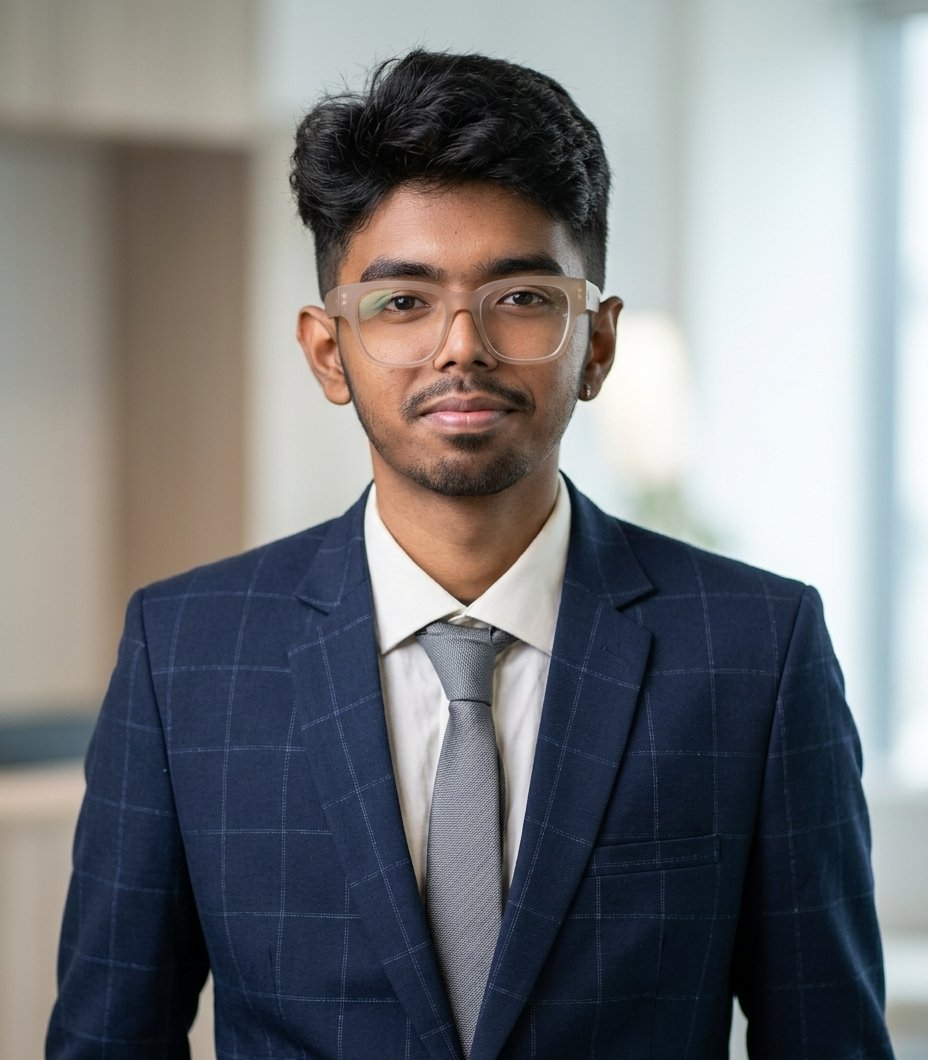
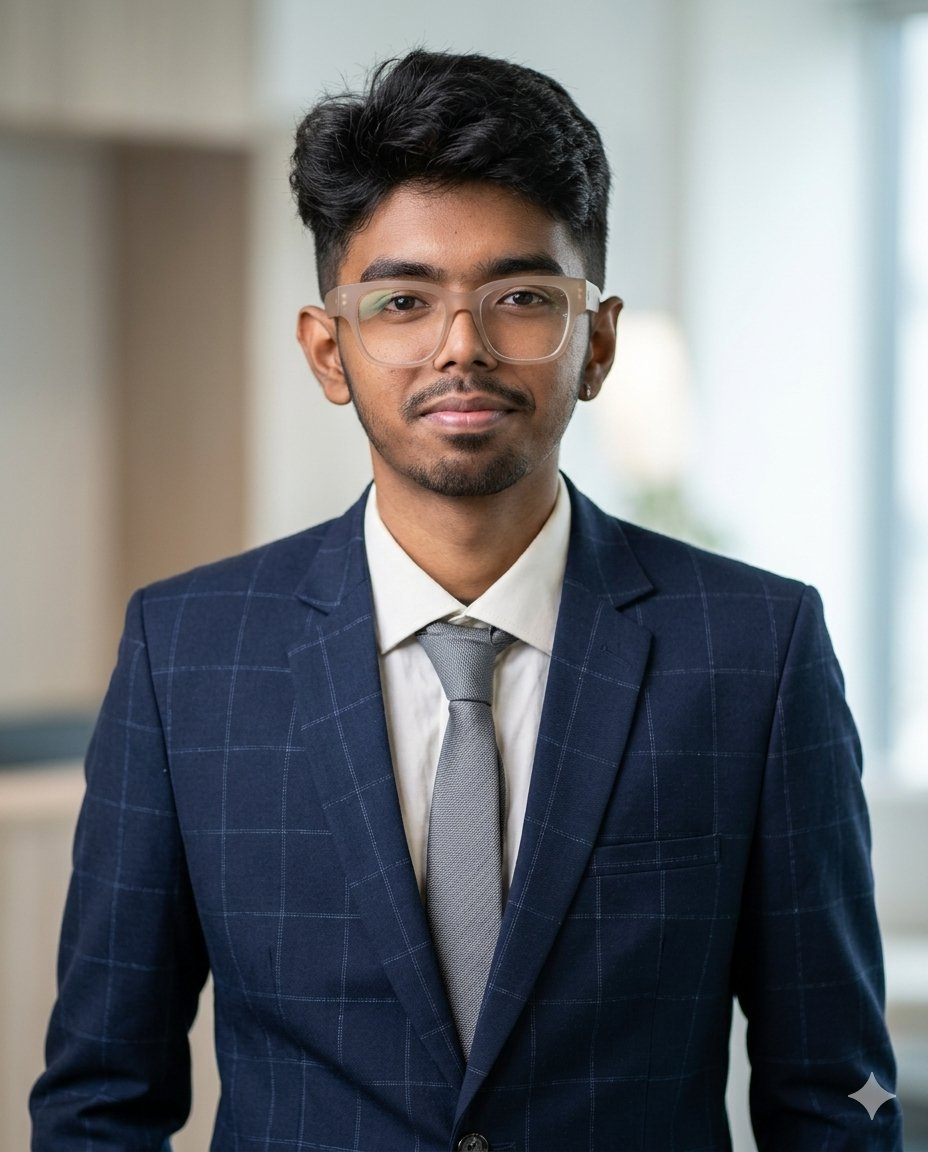
updated my portfolio

diff --git a/index.html b/index.html
@@ -33,8 +33,8 @@
       <p class="hero-role">Software Engineering Student</p>
       <p class="hero-desc">
         CS undergraduate at <strong>AIUB</strong> (Major: Software Engineering, Minor: AI),
-        building practical software across the full stack. CGPA 3.95/4.00 with
-        hands-on experience from real projects and ongoing research.
+        building full-stack software with <strong>React, Next.js, NestJS</strong> and <strong>ASP.NET</strong>.
+        CGPA 3.95/4.00 · 3× Dean's Award · Published researcher.
       </p>
       <div class="hero-btns">
         <a href="#projects" class="btn-primary">View Projects</a>
@@ -69,7 +69,7 @@
           <div class="stat-label">Projects Built</div>
         </div>
         <div class="stat-item">
-          <div class="stat-number"><span data-count="2">2</span></div>
+          <div class="stat-number"><span data-count="3">3</span></div>
           <div class="stat-label">Dean's Awards</div>
         </div>
         <div class="stat-item">
@@ -108,14 +108,15 @@
           Software Engineering with a minor in Artificial Intelligence.
         </p>
         <p>
-          I've built full-stack web apps, desktop systems, graphics programs, and enterprise
-          management tools — across <strong>C++, Java, C#, PHP, JavaScript</strong> and more.
-          My focus is on writing clean, maintainable code that solves real problems.
+          I build full-stack web apps, desktop systems, graphics programs, and enterprise
+          management tools. My current stack includes <strong>React, Next.js</strong> on the frontend
+          and <strong>NestJS, ASP.NET MVC / Web API</strong> on the backend — with <strong>PostgreSQL</strong>
+          and SQL Server for data. I focus on clean, maintainable architecture.
         </p>
         <p>
-          Currently in my final stretch (Semester 10), diving into <strong>ASP.NET, advanced
-          JS/PHP frameworks,</strong> and <strong>software quality & testing</strong>. I'm also
-          an active LeetCode participant (beginner) and enjoy competitive problem-solving.
+          I've also published a <strong>research paper</strong> during my undergraduate studies and
+          received the <strong>Dean's Award 3 times</strong>. Currently in Semester 10, wrapping up
+          with advanced web frameworks and software quality & testing.
         </p>
         <p>
           Outside code: cricket, chess, and Rubik's cubing keep me sharp.
@@ -185,22 +186,49 @@
 
       <div class="skill-category fade-up fade-up-delay-2">
         <div class="skill-cat-header">
-          <div class="skill-cat-icon">🔧</div>
-          <div class="skill-cat-name">Frameworks & Tech</div>
+          <div class="skill-cat-icon">🖥</div>
+          <div class="skill-cat-name">Frontend</div>
         </div>
         <div class="skill-tags">
-          <span class="skill-tag">Node.js</span>
-          <span class="skill-tag">OpenGL</span>
-          <span class="skill-tag">Oracle</span>
-          <span class="skill-tag">MySQL</span>
-          <span class="skill-tag in-progress">ASP.NET (learning)</span>
-          <span class="skill-tag in-progress">ADO.NET (learning)</span>
-          <span class="skill-tag in-progress">JS Frameworks (learning)</span>
-          <span class="skill-tag in-progress">PHP Frameworks (learning)</span>
+          <span class="skill-tag highlight">React</span>
+          <span class="skill-tag highlight">Next.js</span>
+          <span class="skill-tag">HTML / CSS</span>
+          <span class="skill-tag">JavaScript</span>
         </div>
       </div>
 
       <div class="skill-category fade-up fade-up-delay-3">
+        <div class="skill-cat-header">
+          <div class="skill-cat-icon">⚙</div>
+          <div class="skill-cat-name">Backend</div>
+        </div>
+        <div class="skill-tags">
+          <span class="skill-tag highlight">NestJS</span>
+          <span class="skill-tag highlight">Node.js</span>
+          <span class="skill-tag highlight">ASP.NET MVC</span>
+          <span class="skill-tag highlight">ASP.NET Web API</span>
+          <span class="skill-tag">3-Tier Architecture</span>
+          <span class="skill-tag">ADO.NET</span>
+          <span class="skill-tag">REST APIs</span>
+          <span class="skill-tag">PHP</span>
+          <span class="skill-tag">OpenGL</span>
+        </div>
+      </div>
+
+      <div class="skill-category fade-up fade-up-delay-4">
+        <div class="skill-cat-header">
+          <div class="skill-cat-icon">🗄</div>
+          <div class="skill-cat-name">Databases</div>
+        </div>
+        <div class="skill-tags">
+          <span class="skill-tag highlight">PostgreSQL</span>
+          <span class="skill-tag highlight">MySQL</span>
+          <span class="skill-tag">Microsoft SQL Server</span>
+          <span class="skill-tag">Oracle</span>
+        </div>
+      </div>
+
+      <div class="skill-category fade-up fade-up-delay-1">
         <div class="skill-cat-header">
           <div class="skill-cat-icon">🛠</div>
           <div class="skill-cat-name">Developer Tools</div>
@@ -208,25 +236,22 @@
         <div class="skill-tags">
           <span class="skill-tag">VS Code</span>
           <span class="skill-tag">Visual Studio 2022</span>
-          <span class="skill-tag">MS SQL Server</span>
-          <span class="skill-tag">Code::Blocks</span>
-          <span class="skill-tag">LaTeX</span>
-          <span class="skill-tag">Notepad++</span>
           <span class="skill-tag">Git / GitHub</span>
+          <span class="skill-tag">Postman</span>
+          <span class="skill-tag">LaTeX</span>
+          <span class="skill-tag">Code::Blocks</span>
         </div>
       </div>
 
-      <div class="skill-category fade-up fade-up-delay-4">
+      <div class="skill-category fade-up fade-up-delay-2">
         <div class="skill-cat-header">
           <div class="skill-cat-icon">🧠</div>
           <div class="skill-cat-name">CS Concepts</div>
         </div>
         <div class="skill-tags">
-          <span class="skill-tag">Data Structures</span>
-          <span class="skill-tag">Algorithms</span>
-          <span class="skill-tag">OOP</span>
-          <span class="skill-tag">OOAD</span>
-          <span class="skill-tag">OS</span>
+          <span class="skill-tag">Data Structures & Algorithms</span>
+          <span class="skill-tag">OOP / OOAD</span>
+          <span class="skill-tag">Operating Systems</span>
           <span class="skill-tag">Compiler Design</span>
           <span class="skill-tag">Machine Learning</span>
           <span class="skill-tag">Computer Vision</span>
@@ -250,7 +275,7 @@
       <div class="project-card fade-up fade-up-delay-1">
         <div class="project-header">
           <div class="project-icon">🍽</div>
-          <a class="project-link" href="https://github.com/Taneem69/Online-Food-Blog" target="_blank" rel="noopener" title="GitHub">
+          <a class="project-link" href="https://github.com/Taneem69/Online-Food-Blog-" target="_blank" rel="noopener" title="GitHub">
             <svg width="20" height="20" viewBox="0 0 24 24" fill="none" stroke="currentColor" stroke-width="2" stroke-linecap="round" stroke-linejoin="round"><path d="M18 13v6a2 2 0 0 1-2 2H5a2 2 0 0 1-2-2V8a2 2 0 0 1 2-2h6"/><polyline points="15 3 21 3 21 9"/><line x1="10" y1="14" x2="21" y2="3"/></svg>
           </a>
         </div>
@@ -334,16 +359,26 @@
 
     <div class="achievements-grid">
       <div class="achievement-card fade-up fade-up-delay-1">
-        <div class="achievement-icon">🏆</div>
+        <div class="achievement-icon">📄</div>
         <div>
-          <div class="achievement-title">Dean's Award — 2× Recipient</div>
+          <div class="achievement-title">Research Paper Publication</div>
           <div class="achievement-desc">
-            Awarded for exceptional academic performance. Additional awards anticipated upon completion of upcoming semesters.
+            Published a research paper during undergraduate study at AIUB — contributing to academic knowledge while completing a full course load.
           </div>
         </div>
       </div>
 
       <div class="achievement-card fade-up fade-up-delay-2">
+        <div class="achievement-icon">🏆</div>
+        <div>
+          <div class="achievement-title">Dean's Award — 3× Recipient</div>
+          <div class="achievement-desc">
+            Awarded three times for exceptional academic performance across semesters at AIUB.
+          </div>
+        </div>
+      </div>
+
+      <div class="achievement-card fade-up fade-up-delay-3">
         <div class="achievement-icon">🥈</div>
         <div>
           <div class="achievement-title">Runner-up — Physics Poster Presentation</div>
@@ -353,7 +388,7 @@
         </div>
       </div>
 
-      <div class="achievement-card fade-up fade-up-delay-3">
+      <div class="achievement-card fade-up fade-up-delay-4">
         <div class="achievement-icon">⌨</div>
         <div>
           <div class="achievement-title">Competitive Programming</div>
@@ -363,7 +398,7 @@
         </div>
       </div>
 
-      <div class="achievement-card fade-up fade-up-delay-4">
+      <div class="achievement-card fade-up fade-up-delay-1">
         <div class="achievement-icon">♟</div>
         <div>
           <div class="achievement-title">Interests & Hobbies</div>

diff --git a/css/style.css b/css/style.css
@@ -430,7 +430,7 @@ section { position: relative; z-index: 1; padding: 6rem 6vw; }
 #skills {}
 .skills-grid {
   display: grid;
-  grid-template-columns: repeat(auto-fit, minmax(280px, 1fr));
+  grid-template-columns: repeat(3, 1fr);
   gap: 1.5rem;
 }
 .skill-category {
@@ -754,7 +754,7 @@ footer span { color: var(--gold); }
   .nav-cta { display: none; }
 
   .projects-grid { grid-template-columns: 1fr 1fr; }
-  .skills-grid   { grid-template-columns: 1fr 1fr; }
+  .skills-grid   { grid-template-columns: repeat(2, 1fr); }
 }
 
 /* ══════════════════════════════════════════

diff --git a/js/main.js b/js/main.js
@@ -85,8 +85,10 @@ document.querySelectorAll('a[href^="#"]').forEach(a => {
 /* ── Typewriter effect for hero role ── */
 const roles = [
   'Software Engineering Student',
-  'Interested in Web Development',
-  'AI/ML Enthusiast',
+  'Full-Stack Developer',
+  'React & Next.js Developer',
+  'NestJS & ASP.NET Developer',
+  'AI / ML Enthusiast',
 ];
 let roleIdx = 0, charIdx = 0, deleting = false;
 const roleEl = document.querySelector('.hero-role');

diff --git a/README.md b/README.md
@@ -1,1 +1,103 @@
-# Taneem69.github.io
+# 🗂 Tanvir Mahtab Taneem — Portfolio
+
+A personal portfolio website. Clean, dark, professional.
+
+---
+
+## 📁 Project Structure
+
+```
+portfolio/
+├── index.html          ← Main page (all sections live here)
+├── css/
+│   └── style.css       ← All styles (colours, fonts, layout)
+├── js/
+│   └── main.js         ← Animations, typewriter, scroll effects
+├── assets/
+│   └── profile.png     ← Your profile photo
+└── README.md           ← This file
+```
+
+---
+
+## ✏ How to Edit
+
+### Change personal info
+Open `index.html` and search for the section you want to edit:
+- **Hero name/desc** → `<section id="hero">`
+- **About paragraph** → `<section id="about">`
+- **Projects** → `<section id="projects">`
+- **Achievements** → `<section id="achievements">`
+- **Contact links** → `<section id="contact">`
+
+### Change colours & fonts
+Open `css/style.css` and edit the `:root` block at the top:
+```css
+:root {
+  --navy:       #080d1a;   /* background */
+  --gold:       #c9a84c;   /* accent colour */
+  --white:      #f0eeea;   /* text colour */
+  --muted:      #8a9ab8;   /* secondary text */
+  --font-display: 'Syne', sans-serif;   /* heading font */
+  --font-body:    'DM Sans', sans-serif; /* body font */
+}
+```
+That's it — changing these 6 variables rethemes the whole site instantly.
+
+### Add a new project
+Copy one `.project-card` block inside `<div class="projects-grid">` in `index.html` and fill in your details.
+
+### Add a new skill tag
+Find the right `.skill-category` block and add:
+```html
+<span class="skill-tag">Your Skill</span>
+```
+Use `skill-tag highlight` for primary skills, `skill-tag in-progress` for things you're learning.
+
+### Change the typewriter roles
+Open `js/main.js` and edit the `roles` array near the top:
+```js
+const roles = [
+  'Software Engineering Student',
+  'Full-Stack Developer',
+  'AI/ML Enthusiast',
+  'Open Source Contributor',
+];
+```
+
+### Replace profile photo
+Drop your new photo into the `assets/` folder and rename it `profile.png`.
+Or change the `src` in `index.html`:
+```html
+<img src="assets/YOUR_PHOTO.jpg" alt="Your Name" />
+```
+
+---
+
+## 🚀 How to Run Locally
+
+Just open `index.html` in your browser — no build step, no dependencies.
+
+Or use VS Code Live Server extension for auto-refresh on save.
+
+---
+
+## 🌐 How to Deploy (Free)
+
+### GitHub Pages
+1. Push this folder to a GitHub repo
+2. Go to repo Settings → Pages
+3. Set source to `main` branch, root `/`
+4. Your site will be live at `https://yourusername.github.io/repo-name`
+
+### Netlify (drag & drop)
+1. Go to [netlify.com](https://netlify.com)
+2. Drag the `portfolio/` folder onto the deploy area
+3. Done — live in 30 seconds
+
+---
+
+## 📝 Notes
+- No frameworks, no build tools — pure HTML/CSS/JS
+- Mobile responsive out of the box
+- All animations are CSS/JS only, no external animation libraries
